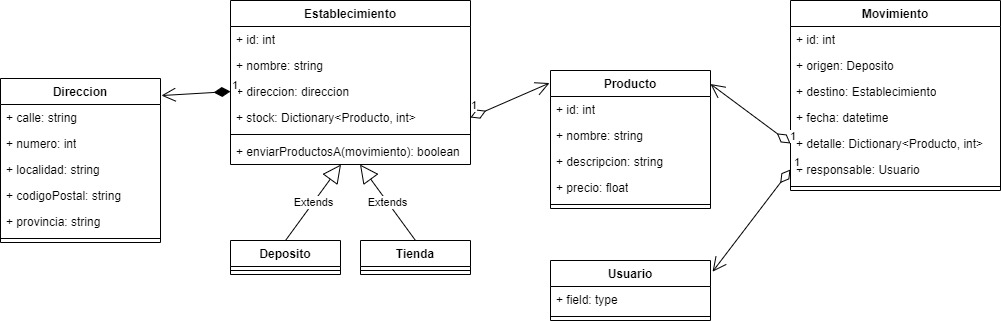
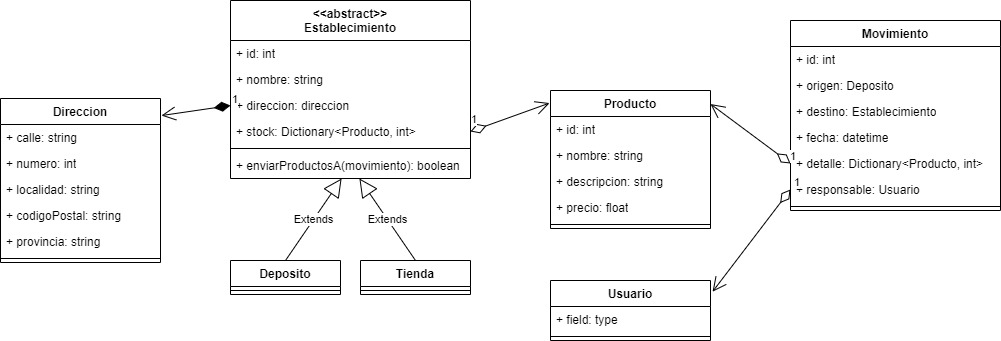
comunicacion de la api con las otras 3 capas para consultar tiendas y depositos

diff --git a/EjercicioPractico/BusinessLayer/GestorEstablecimientos.cs b/EjercicioPractico/BusinessLayer/GestorEstablecimientos.cs
@@ -1,0 +1,65 @@
+using DomainModel;
+using Repository;
+
+namespace BusinessLayer
+{
+    public class GestorEstablecimientos
+    {
+        private static GestorEstablecimientos _instance = null;
+        private static readonly object singletonLock = new object();
+
+        private DepositoRepositorio depositosRepositorio = null;
+        private TiendaRepositorio tiendasRepositorio = null;
+        private GestorEstablecimientos() {
+            depositosRepositorio = new DepositoRepositorio();
+            tiendasRepositorio = new TiendaRepositorio();
+        }
+
+        public static GestorEstablecimientos Instance {
+            get {
+                lock (singletonLock) {
+                    if (_instance == null) { 
+                        _instance = new GestorEstablecimientos();
+                    }
+                    return _instance;
+                }
+            }
+        }
+
+        public IEnumerable<Deposito> GetDepositos() {
+            return depositosRepositorio.ObtenerTodos();
+        }
+
+        public bool AddDeposito(Deposito unDeposito)
+        {
+            try
+            {
+                depositosRepositorio.AgregarUno(unDeposito);
+                return true;
+            }
+            catch (Exception)
+            {
+                return false;
+            }
+        }
+
+        public IEnumerable<Tienda> GetTiendas()
+        {
+            return tiendasRepositorio.ObtenerTodos();
+        }
+
+        public bool AddTienda(Tienda unaTienda)
+        {
+            try
+            {
+                tiendasRepositorio.AgregarUno(unaTienda);
+                return true;
+            }
+            catch (Exception)
+            {
+                return false;
+            }
+        }
+
+    }
+}

diff --git a/EjercicioPractico/Repository/DepositoRepositorio.cs b/EjercicioPractico/Repository/DepositoRepositorio.cs
@@ -1,0 +1,58 @@
+using DomainModel;
+
+namespace Repository
+{
+    public class DepositoRepositorio : IRepositorioGenerico<Deposito>
+    {
+        private IList<Deposito> _listaDeDepositos;
+        public DepositoRepositorio()
+        {
+            _listaDeDepositos= new List<Deposito>();
+
+            Direccion direccionDepositoA = new Direccion()
+            {
+                Calle = "Thames",
+                Numero = 2618,
+                Localidad = "Boulogne",
+                CodigoPostal = "B1609",
+                Provincia = "Buenos Aires"
+            };
+            Producto unProducto = new Producto();
+            Deposito unDeposito = new Deposito()
+            {
+                Id = 1,
+                Nombre = "Deposito A",
+                Direccion = direccionDepositoA
+            };
+
+            _listaDeDepositos.Add(unDeposito);
+        }
+
+        public void AgregarUno(Deposito unObjeto)
+        {
+            _listaDeDepositos.Add(unObjeto);
+        }
+
+        public void BorrarUno(Deposito unObjeto)
+        {
+            _listaDeDepositos.Remove(unObjeto);
+        }
+
+        public void ModificarUno(Deposito unObjeto)
+        {
+            int index = _listaDeDepositos.IndexOf(unObjeto);
+            _listaDeDepositos[index] = unObjeto;
+        }
+
+        public IEnumerable<Deposito> ObtenerTodos()
+        {
+            return _listaDeDepositos;
+        }
+
+        public Deposito ObtenerUno(int id)
+        {
+            return _listaDeDepositos.First(t => t.Id == id);
+        }
+
+    }
+}

diff --git a/EjercicioPractico/Repository/TiendaRepositorio.cs b/EjercicioPractico/Repository/TiendaRepositorio.cs
@@ -1,0 +1,53 @@
+using DomainModel;
+
+namespace Repository
+{
+    public class TiendaRepositorio : IRepositorioGenerico<Tienda>
+    {
+        private IList<Tienda> _listaDeTiendas;
+        public TiendaRepositorio() { 
+            _listaDeTiendas = new List<Tienda>();
+
+            Direccion direccionTienda1 = new Direccion() { 
+                Calle = "Parana",
+                Numero = 6796,
+                Localidad = "Villa Adelina (Vte Lopez)",
+                CodigoPostal = "B1607",
+                Provincia = "Buenos Aires"
+            };
+            Producto unProducto = new Producto();
+            Tienda unaTienda = new Tienda() { 
+                Id = 1,
+                Nombre = "Valusel Villa Adelina",
+                Direccion = direccionTienda1
+            };
+
+            _listaDeTiendas.Add(unaTienda);
+        }
+        public void AgregarUno(Tienda unObjeto)
+        {
+            _listaDeTiendas.Add(unObjeto);
+        }
+
+        public void BorrarUno(Tienda unObjeto)
+        {
+            _listaDeTiendas.Remove(unObjeto);
+        }
+
+        public void ModificarUno(Tienda unObjeto)
+        {
+            int index = _listaDeTiendas.IndexOf(unObjeto);
+            _listaDeTiendas[index] = unObjeto;
+        }
+
+        public IEnumerable<Tienda> ObtenerTodos()
+        {
+            return _listaDeTiendas;
+        }
+
+        public Tienda ObtenerUno(int id)
+        {
+            return _listaDeTiendas.First(t => t.Id == id);
+        }
+    }
+}

diff --git a/EjercicioPractico/WebApplication1/Controllers/DepositoController.cs b/EjercicioPractico/WebApplication1/Controllers/DepositoController.cs
@@ -1,0 +1,30 @@
+using BusinessLayer;
+using DomainModel;
+using Microsoft.AspNetCore.Mvc;
+
+namespace WebApplication1.Controllers
+{
+    [ApiController]
+    [Route("[controller]")]
+    public class DepositoController : ControllerBase
+    {
+        private readonly ILogger<DepositoController> _logger;
+
+        public DepositoController(ILogger<DepositoController> logger)
+        {
+            _logger = logger;
+            
+        }
+
+        [HttpGet(Name = "GetDepositos")]
+        public IEnumerable<Deposito> Get()
+        {
+            return GestorEstablecimientos.Instance.GetDepositos();
+        }
+
+        [HttpPost(Name = "AddDeposito")]
+        public bool Add(Deposito unDeposito) { 
+            return GestorEstablecimientos.Instance.AddDeposito(unDeposito);
+        }
+    }
+}

diff --git a/EjercicioPractico/WebApplication1/Controllers/TiendaController.cs b/EjercicioPractico/WebApplication1/Controllers/TiendaController.cs
@@ -1,0 +1,32 @@
+using BusinessLayer;
+using DomainModel;
+using Microsoft.AspNetCore.Mvc;
+
+namespace WebApplication1.Controllers
+{
+    [ApiController]
+    [Route("[controller]")]
+    public class TiendaController : ControllerBase
+    {
+        private readonly ILogger<TiendaController> _logger;
+
+        public TiendaController(ILogger<TiendaController> logger)
+        {
+            _logger = logger;
+            
+        }
+
+        [HttpGet(Name = "GetTiendas")]
+        public IEnumerable<Tienda> Get()
+        {
+            return GestorEstablecimientos.Instance.GetTiendas();
+        }
+
+
+        [HttpPost(Name = "AddTienda")]
+        public bool Add(Tienda unaTienda)
+        {
+            return GestorEstablecimientos.Instance.AddTienda(unaTienda);
+        }
+    }
+}

diff --git a/EjercicioPractico/Repository/IRepositorioGenerico.cs b/EjercicioPractico/Repository/IRepositorioGenerico.cs
@@ -1,0 +1,14 @@
+using System;
+using System.Collections.Generic;
+using System.Linq;
+namespace Repository
+{
+    public interface IRepositorioGenerico<T>
+    {
+        public IEnumerable<T> ObtenerTodos();
+        public T ObtenerUno(int id);
+        public void AgregarUno(T unObjeto);
+        public void BorrarUno(T unObjeto); 
+        public void ModificarUno(T unObjeto);
+    }
+}

diff --git a/EjercicioPractico/DomainModel/Establecimiento.cs b/EjercicioPractico/DomainModel/Establecimiento.cs
@@ -1,6 +1,6 @@
 namespace DomainModel
 {
-    internal class Establecimiento
+    public abstract class Establecimiento
     {
         public int Id { get; set; }
         public string Nombre { get; set; }

diff --git a/EjercicioPractico/DomainModel/Direccion.cs b/EjercicioPractico/DomainModel/Direccion.cs
@@ -1,6 +1,6 @@
 namespace DomainModel
 {
-    internal class Direccion
+    public class Direccion
     {
         public string Calle { get; set; }
         public int Numero { get; set; }

diff --git a/EjercicioPractico/DomainModel/Producto.cs b/EjercicioPractico/DomainModel/Producto.cs
@@ -1,6 +1,6 @@
 namespace DomainModel
 {
-    internal class Producto
+    public class Producto
     {
         public int Id { get; set; }
         public string Nombre { get; set; }

diff --git a/EjercicioPractico/DomainModel/Deposito.cs b/EjercicioPractico/DomainModel/Deposito.cs
@@ -1,6 +1,6 @@
 namespace DomainModel
 {
-    internal class Deposito: Establecimiento
+    public class Deposito: Establecimiento
     {
     }
 }

diff --git a/EjercicioPractico/DomainModel/Tienda.cs b/EjercicioPractico/DomainModel/Tienda.cs
@@ -1,6 +1,6 @@
 namespace DomainModel
 {
-    internal class Tienda: Establecimiento
+    public class Tienda: Establecimiento
     {
     }
 }
